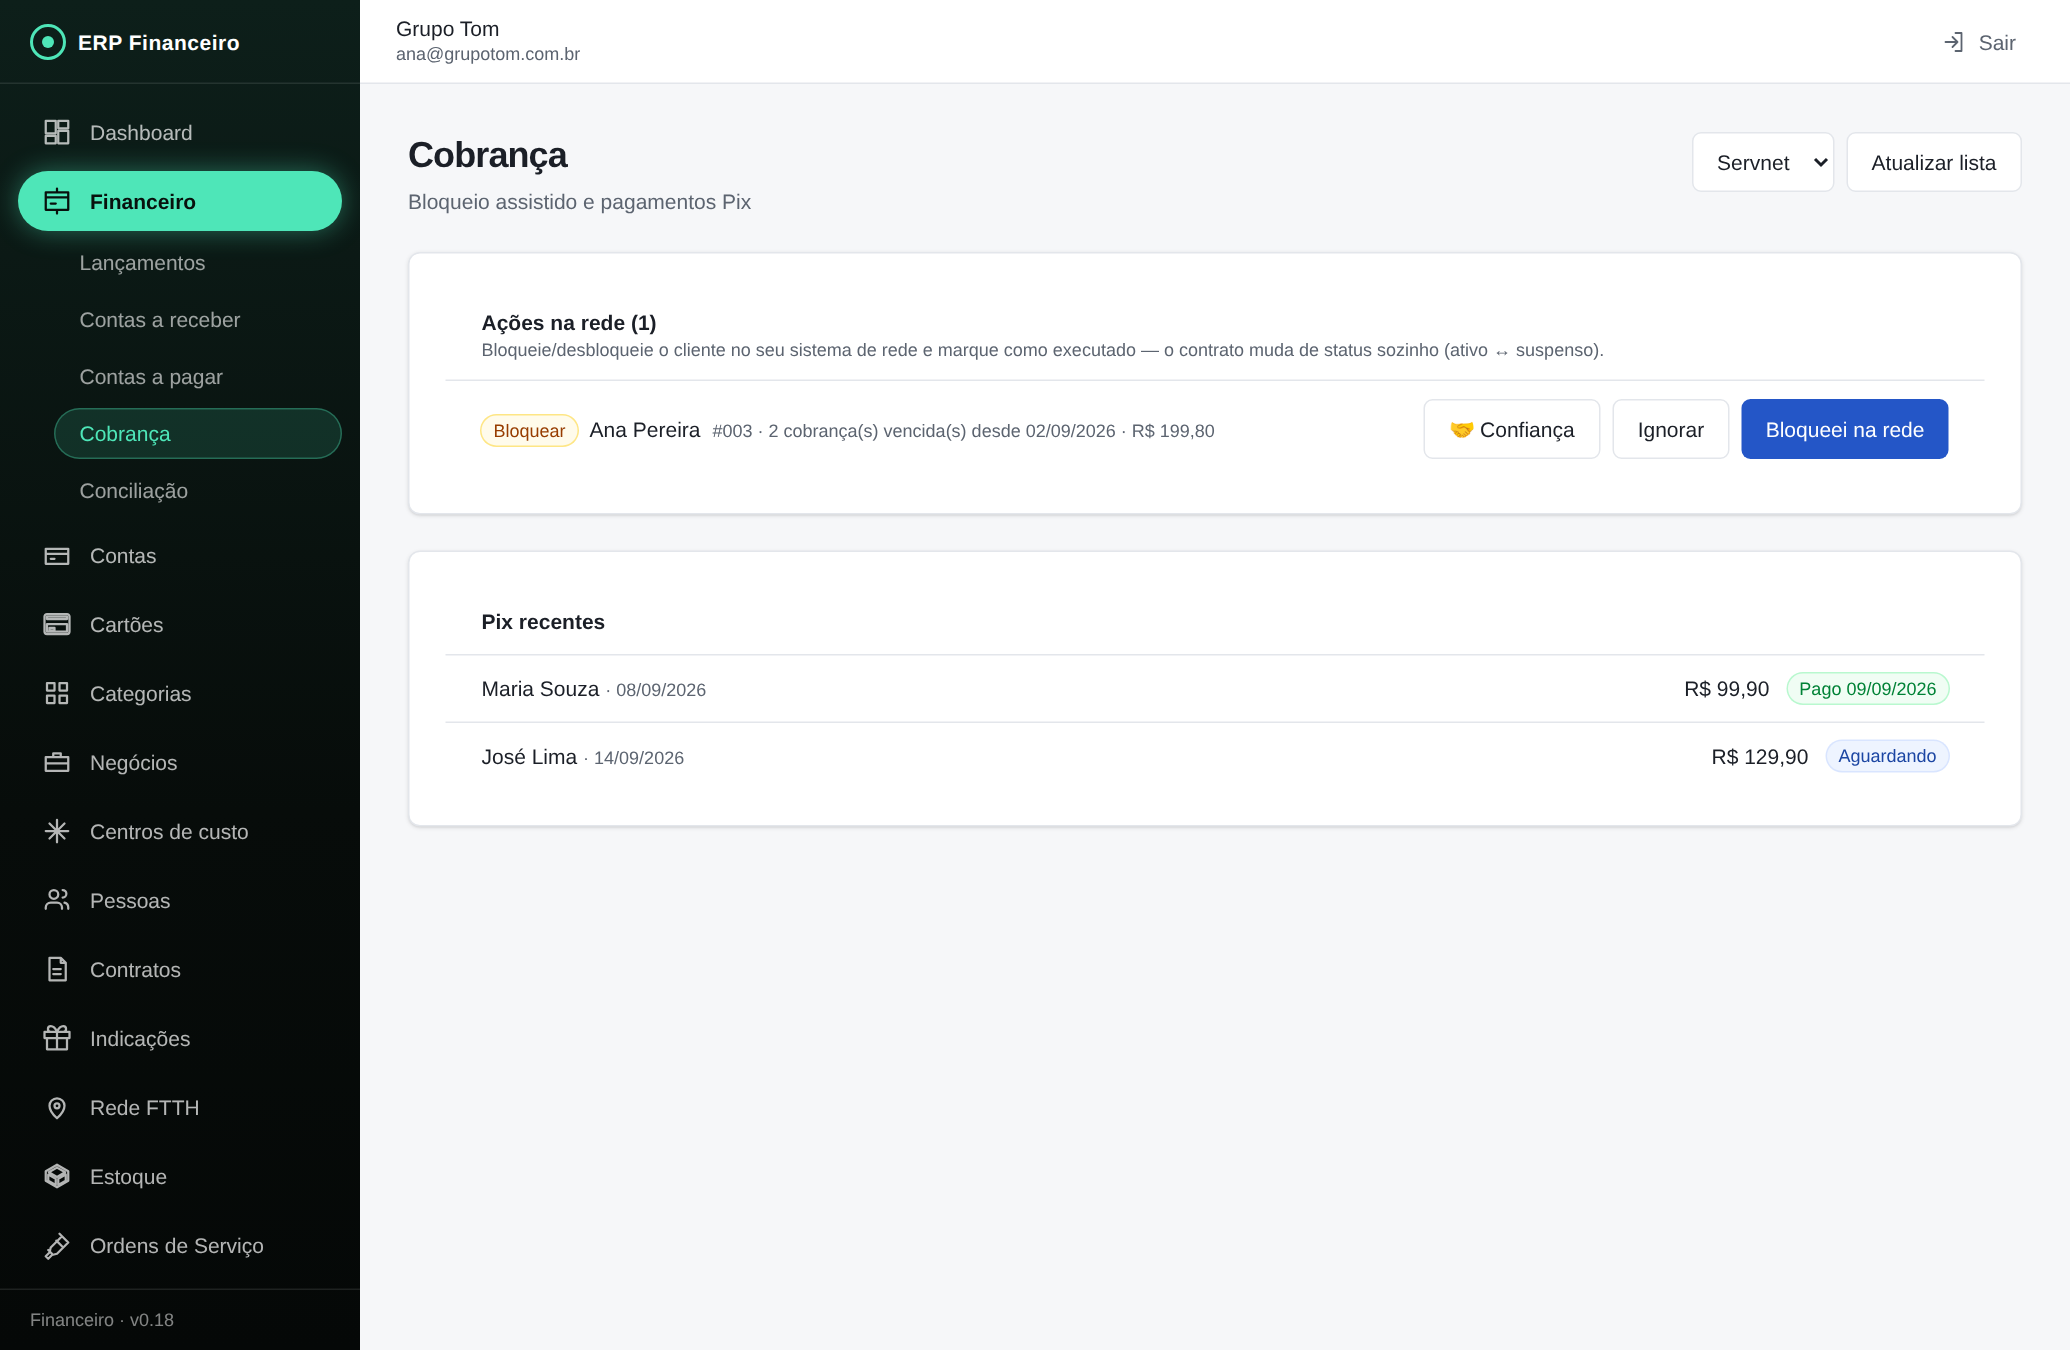
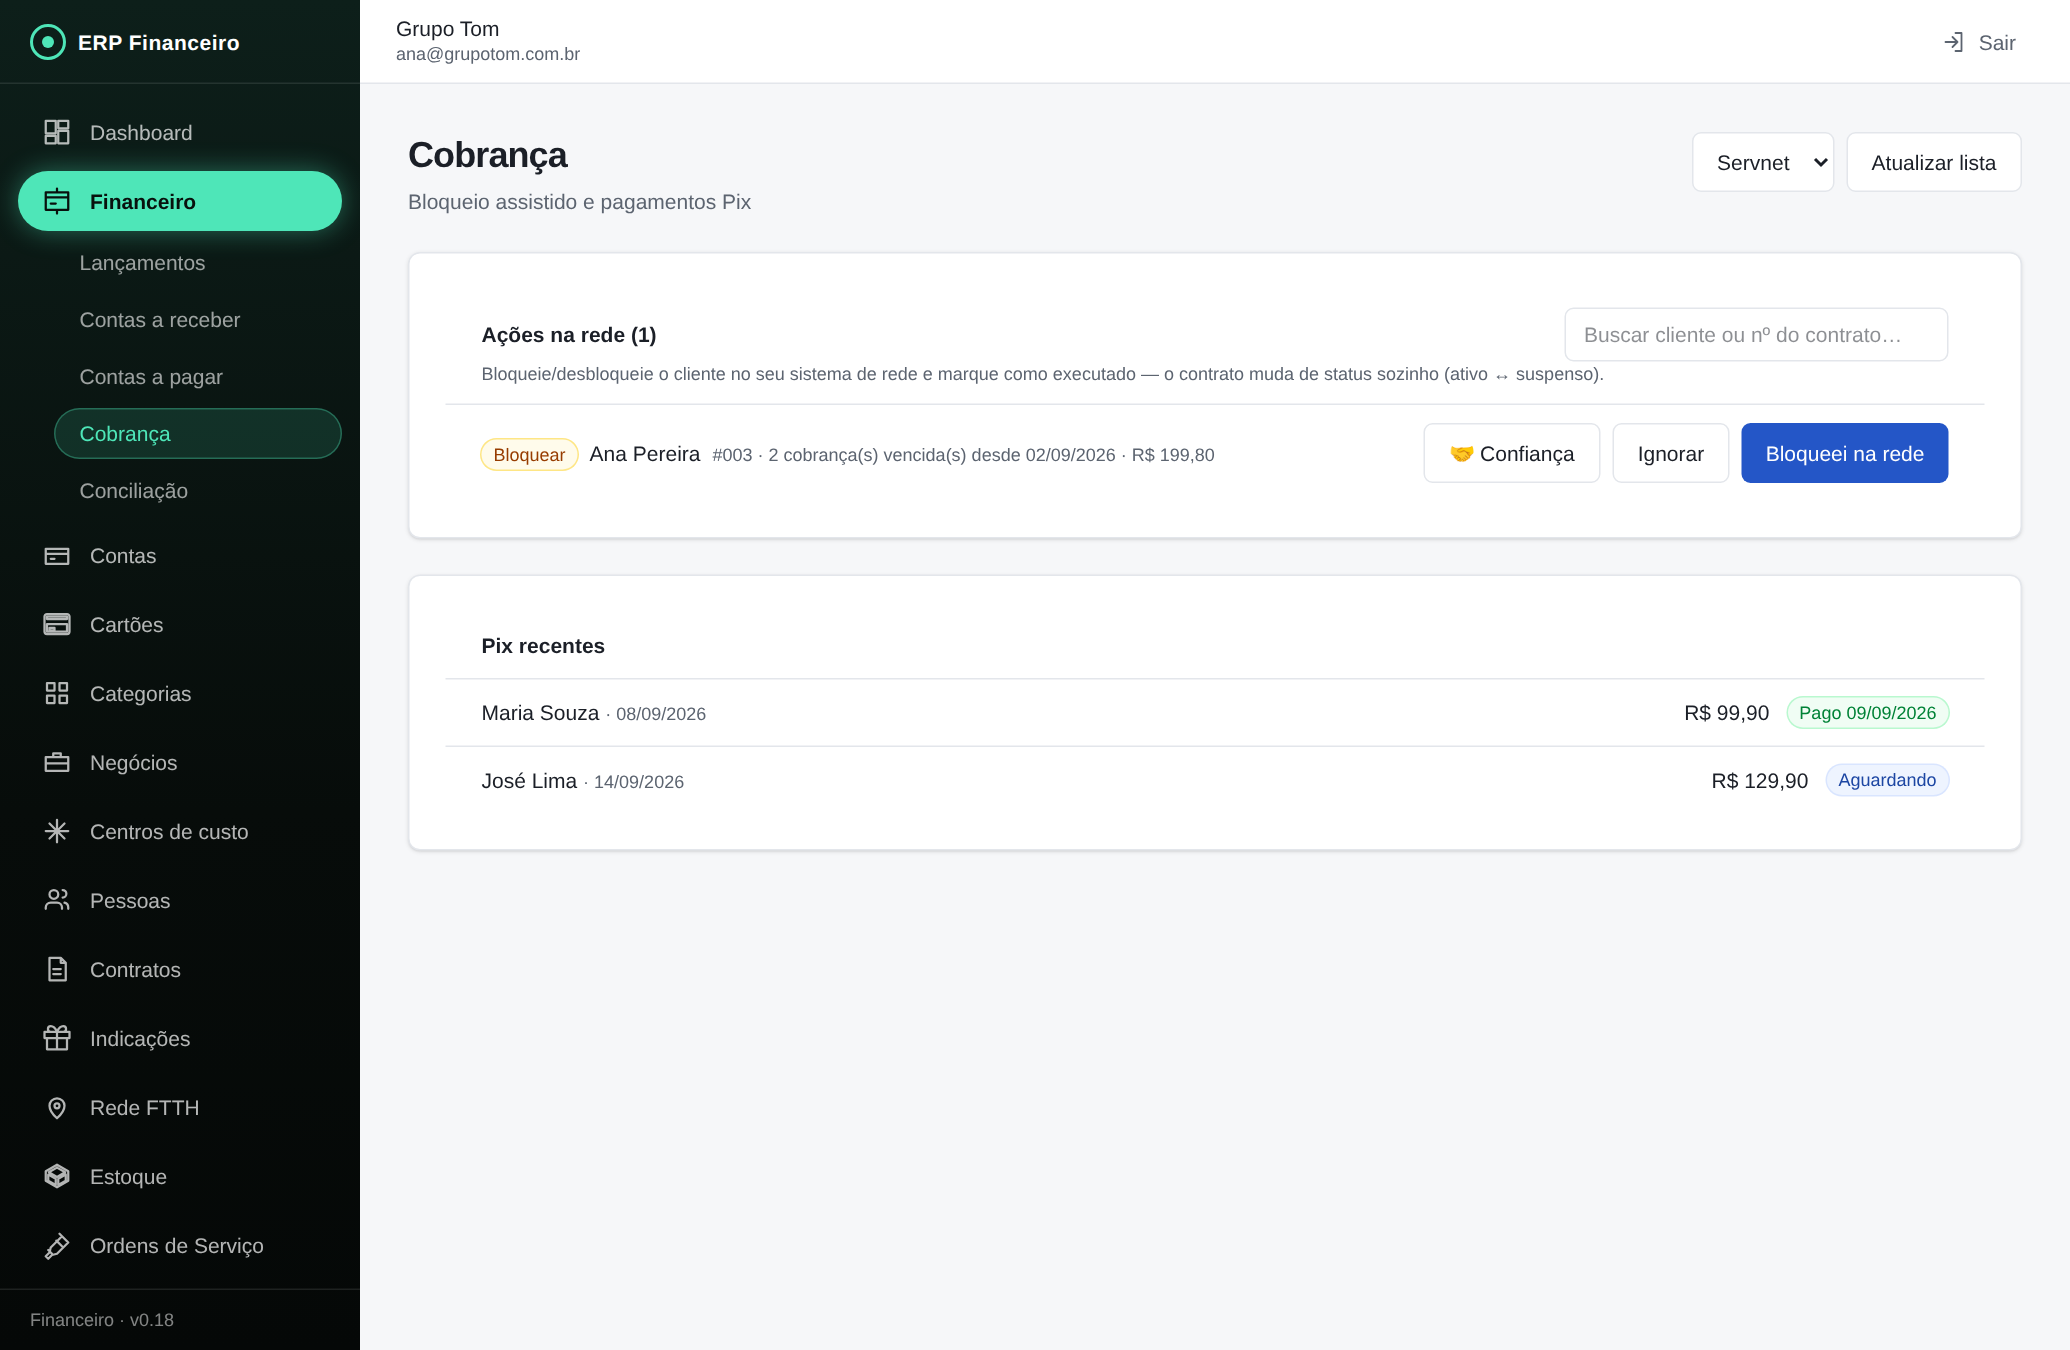
cobrança: filtro de busca por cliente/contrato na lista de ações na rede
Campo de busca (nome do cliente ou nº do contrato) na tela Financeiro →
Cobrança, filtra a lista 'Ações na rede' na hora — útil quando há muitos
bloqueios/desbloqueios pendentes. Só aparece quando a lista tem itens.

Manual atualizado, prints regerados.

Claude-Session: https://claude.ai/code/session_01LvKVVJXHUTGGnyzXpwt5fU

Changed region(s): [[0.2164, 0.2178, 0.9585, 0.3733], [0.2164, 0.4356, 0.3401, 0.5911], [0.8039, 0.4978, 0.9585, 0.5911]]

diff --git a/app/src/modules/financeiro/pages/CobrancaPage.tsx b/app/src/modules/financeiro/pages/CobrancaPage.tsx
@@ -98,9 +98,12 @@ export function CobrancaPage() {
   // atualiza a lista ao abrir a tela
   useEffect(() => { if (negocioAtual) gerar.mutate() }, [negocioAtual]) // eslint-disable-line react-hooks/exhaustive-deps
 
+  const [busca, setBusca] = useState('')
   const nomePessoa = useMemo(() => new Map((pessoas.data ?? []).map((p) => [p.id, p.nome])), [pessoas.data])
   const rotuloContrato = (id: string) => { const c = (contratos.data ?? []).find((x) => x.id === id); return c ? codigoContrato(c) : '—' }
-  const lista = (bloqueios.data ?? []).filter((b) => b.negocio_id === negocioAtual)
+  const buscaNorm = busca.trim().toLowerCase()
+  const listaTodas = (bloqueios.data ?? []).filter((b) => b.negocio_id === negocioAtual)
+  const lista = listaTodas.filter((b) => !buscaNorm || (nomePessoa.get(b.pessoa_id) ?? '').toLowerCase().includes(buscaNorm) || rotuloContrato(b.contrato_id).toLowerCase().includes(buscaNorm))
   const pixLista = (pix.data ?? []).filter((p) => p.negocio_id === negocioAtual)
   const confLista = (confiancas.data ?? []).filter((c) => c.negocio_id === negocioAtual)
   const erro = gerar.error ?? executar.error ?? descartar.error ?? darConfianca.error ?? cancelarConfianca.error
@@ -121,11 +124,18 @@ export function CobrancaPage() {
       <div className="space-y-6">
         <Cartao className="p-0">
           <div className="border-b border-line px-6 py-3">
-            <h2 className="text-sm font-semibold">Ações na rede ({lista.length})</h2>
+            <div className="flex flex-wrap items-center justify-between gap-2">
+              <h2 className="text-sm font-semibold">Ações na rede ({buscaNorm ? `${lista.length} de ${listaTodas.length}` : listaTodas.length})</h2>
+              {listaTodas.length > 0 && (
+                <input value={busca} onChange={(e) => setBusca(e.target.value)} placeholder="Buscar cliente ou nº do contrato…" className="h-9 w-64 rounded-md border border-line bg-white px-3 text-sm" />
+              )}
+            </div>
             <p className="text-xs text-ink-muted">Bloqueie/desbloqueie o cliente no seu sistema de rede e marque como executado — o contrato muda de status sozinho (ativo ↔ suspenso).</p>
           </div>
-          {bloqueios.isPending ? <div className="p-6"><Carregando /></div> : lista.length === 0 ? (
+          {bloqueios.isPending ? <div className="p-6"><Carregando /></div> : listaTodas.length === 0 ? (
             <p className="px-6 py-10 text-center text-sm text-ink-muted">Nada para bloquear ou desbloquear agora. 👍</p>
+          ) : lista.length === 0 ? (
+            <p className="px-6 py-10 text-center text-sm text-ink-muted">Nenhum resultado para "{busca}".</p>
           ) : (
             <ul className="divide-y divide-line text-sm">
               {lista.map((b) => (

diff --git a/docs/manual/README.md b/docs/manual/README.md
@@ -71,7 +71,7 @@ Mesma ideia para as despesas (energia, link, comissões dos técnicos etc.).
 
 ![Cobrança](img/06-cobranca-bloqueios.png)
 
-A tela monta sozinha a lista de **quem bloquear** (cobrança vencida além do prazo da régua) e **quem desbloquear** (suspenso que quitou):
+A tela monta sozinha a lista de **quem bloquear** (cobrança vencida além do prazo da régua) e **quem desbloquear** (suspenso que quitou). Com a lista grande, o campo **Buscar cliente ou nº do contrato…** filtra na hora (aparece só quando há itens na lista):
 
 1. Faça o bloqueio/desbloqueio no seu sistema de rede (OLT/ReceitaNet).
 2. Clique **"Bloqueei na rede" / "Desbloqueei na rede"** — o contrato muda de status sozinho (ativo ↔ suspenso). "Ignorar" descarta a sugestão.
